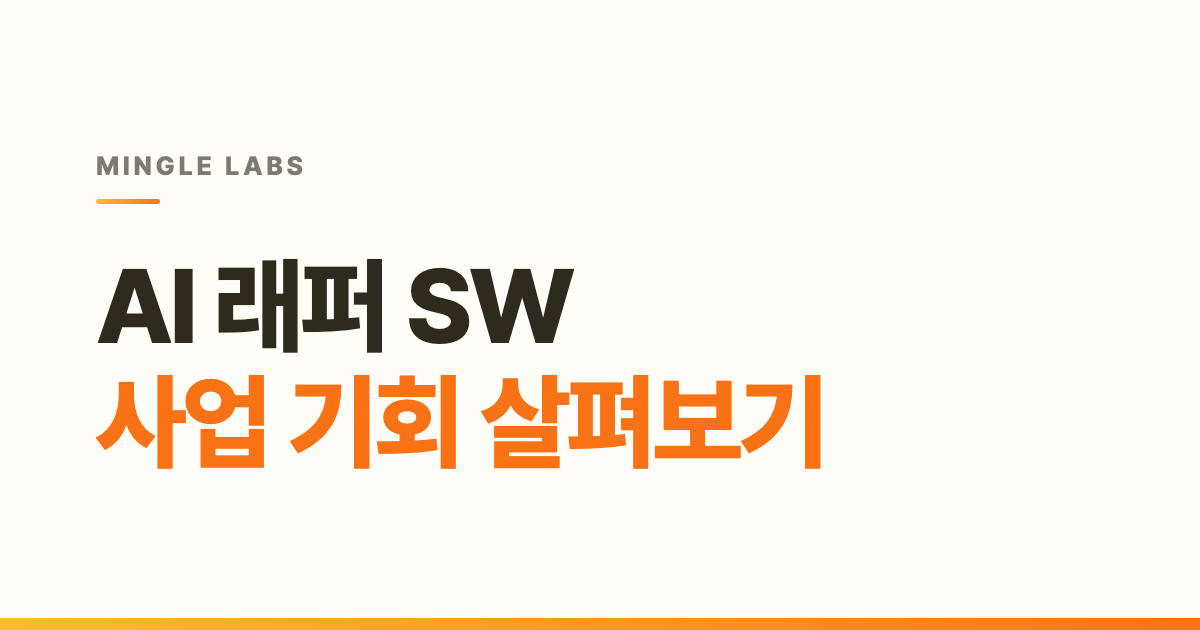
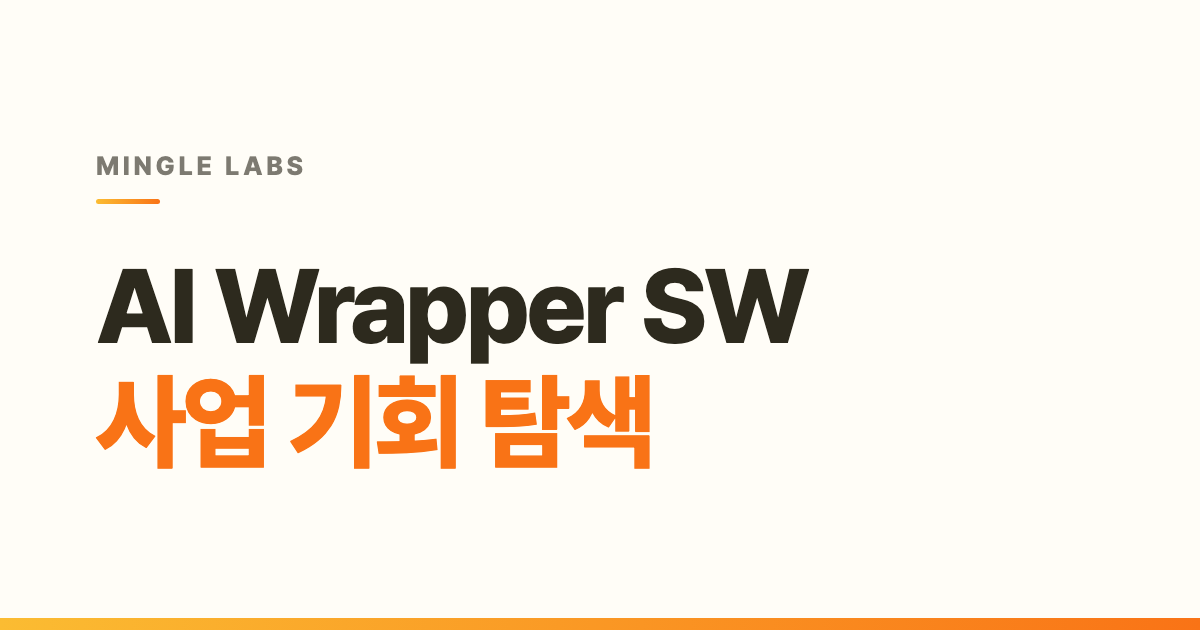
AI Beyond talk: use the organizer's title
English: Exploring Business Opportunities for AI Wrapper Software.
Korean: AI Wrapper SW 사업 기회 탐색. OG images redrawn for the longer title (?v=3).

Changed region(s): [[0.1542, 0.3921, 0.6783, 0.573], [0.4008, 0.6032, 0.7092, 0.754]]

diff --git a/presentation/ai-beyond-wrapper-business.html b/presentation/ai-beyond-wrapper-business.html
@@ -16,19 +16,19 @@
 <meta content="https://minglelabs.github.io/surfers/presentation/ai-beyond-wrapper-business.html" property="og:url"/>
 <meta content="Mingle Labs" property="og:site_name"/>
 <meta content="en_US" property="og:locale"/>
-<meta content="AI Wrappers: Where the Opportunities Are" property="og:title"/>
+<meta content="Exploring Business Opportunities for AI Wrapper Software" property="og:title"/>
 <meta content="Case studies of AI wrapper businesses, and a strategy for what comes next." property="og:description"/>
-<meta content="https://minglelabs.github.io/surfers/presentation/assets/ai-beyond-wrapper-og-en.png?v=2" property="og:image"/>
+<meta content="https://minglelabs.github.io/surfers/presentation/assets/ai-beyond-wrapper-og-en.png?v=3" property="og:image"/>
 <meta content="Mingle Labs logo and talk title" property="og:image:alt"/>
 <meta content="image/png" property="og:image:type"/>
 <meta content="1200" property="og:image:width"/>
 <meta content="630" property="og:image:height"/>
 <meta content="summary_large_image" name="twitter:card"/>
-<meta content="AI Wrappers: Where the Opportunities Are" name="twitter:title"/>
+<meta content="Exploring Business Opportunities for AI Wrapper Software" name="twitter:title"/>
 <meta content="Case studies of AI wrapper businesses, and a strategy for what comes next." name="twitter:description"/>
-<meta content="https://minglelabs.github.io/surfers/presentation/assets/ai-beyond-wrapper-og-en.png?v=2" name="twitter:image"/>
+<meta content="https://minglelabs.github.io/surfers/presentation/assets/ai-beyond-wrapper-og-en.png?v=3" name="twitter:image"/>
 <meta content="Mingle Labs logo and talk title" name="twitter:image:alt"/>
-<title>AI Wrappers: Where the Opportunities Are — Mingle Labs</title>
+<title>Exploring Business Opportunities for AI Wrapper Software — Mingle Labs</title>
 <link href="assets/mingle-favicon.png" rel="icon" type="image/png"/>
 <link href="assets/mingle-apple-touch-icon.png" rel="apple-touch-icon"/>
 <style>
@@ -7203,14 +7203,14 @@
 </head>
 <body>
 
-<main aria-label="AI Wrappers: Where the Opportunities Are" class="deck" data-ko-aria-label="AI 래퍼 SW 사업 기회 살펴보기">
+<main aria-label="Exploring Business Opportunities for AI Wrapper Software" class="deck" data-ko-aria-label="AI Wrapper SW 사업 기회 탐색">
 <div aria-hidden="true" class="progress"><div class="progress-fill" id="progress-fill"></div></div>
 <div class="track" id="deck-track">
 <section aria-label="Cover" class="slide is-active" data-ko-aria-label="표지" data-slide="표지">
 <article class="slide-shell slide-shell--center">
 <div class="brand"><span aria-hidden="true" class="brand-mark"></span><span>AI Beyond 2026</span></div>
 <div class="copy copy--center">
-<h1 class="title title--hero title--center" data-ko='AI 래퍼 SW&lt;br/&gt;&lt;span class="title-accent"&gt;사업 기회 살펴보기&lt;/span&gt;'>AI Wrappers<br/><span class="title-accent">Where the Opportunities Are</span></h1>
+<h1 class="title title--hero title--center" data-ko='AI Wrapper SW&lt;br/&gt;&lt;span class="title-accent"&gt;사업 기회 탐색&lt;/span&gt;'>Exploring Business Opportunities<br/><span class="title-accent">for AI Wrapper Software</span></h1>
 <div class="hero-meta" data-ko="&lt;span&gt;밍글랩스 남형걸&lt;/span&gt;&lt;span&gt;26년 11월 5일&lt;/span&gt;"><span>Hyeongkeol Nam, Mingle Labs</span><span>Nov 5, 2026</span></div>
 </div>
 </article>
@@ -9165,7 +9165,7 @@
         ["alt", "aria-label", "title"].forEach((name) => {
           document.querySelectorAll(`[data-ko-${name}]`).forEach((el) => { el.setAttribute(name, el.getAttribute(`data-ko-${name}`)); });
         });
-        document.title = "AI 래퍼 SW 사업 기회 살펴보기 — 밍글랩스";
+        document.title = "AI Wrapper SW 사업 기회 탐색 — 밍글랩스";
       })();
     </script>
     <script>
